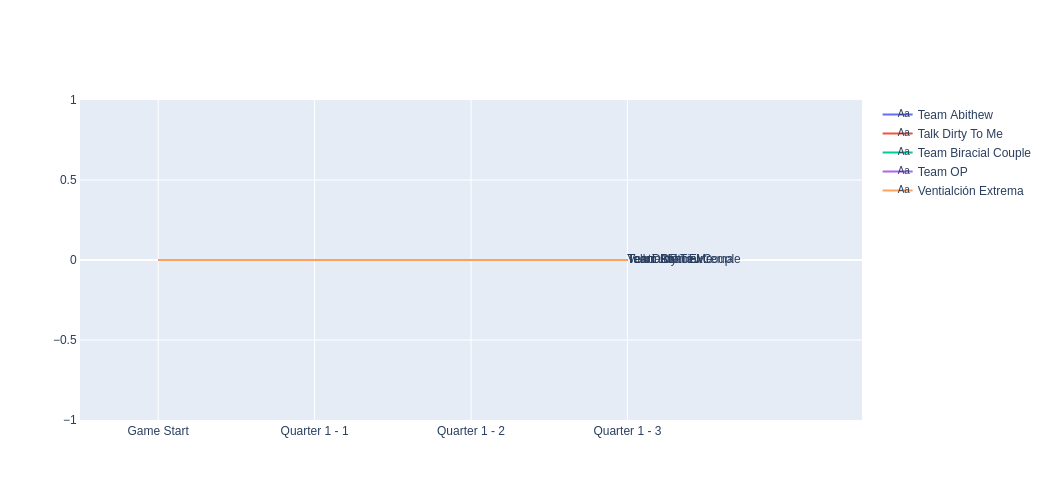
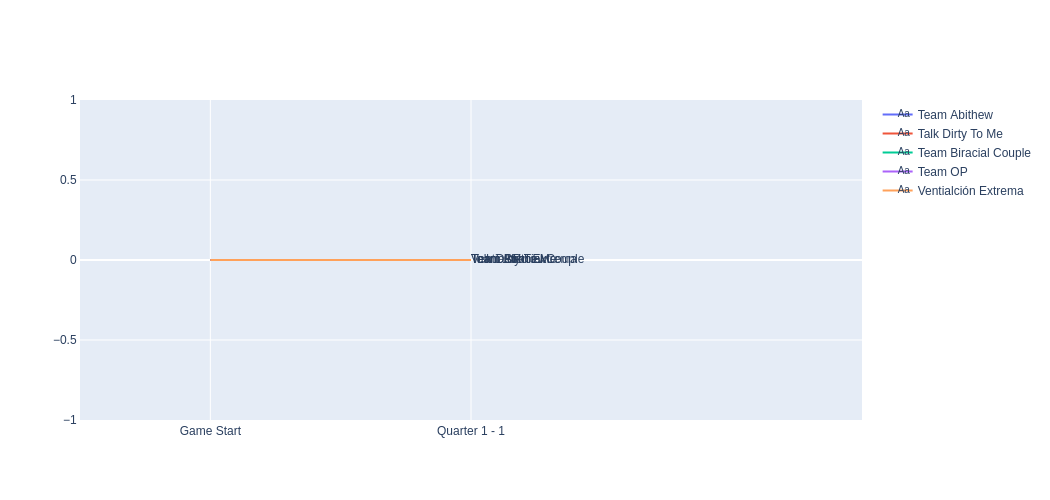
Live Edits

diff --git a/Trivia/Live_Tracker.html b/Trivia/Live_Tracker.html
@@ -13,11 +13,7 @@
         document.getElementById("title").innerHTML = "Trivia Live Scoring - " + m + "/" + d + "/" + y;
         </script>
         <div><img src = "img/fig1.png"></div>
-<<<<<<< HEAD
-        <div>0 people (0%) got question 1-3 correct.</div>
-=======
-        <div>Welcome!</div>
->>>>>>> 2df19d8f7845007bf423952e421ba7108fd4dd43
+        <div>1 person (20%) got question 1-1 correct.</div>
         
         </body>
         </html>
